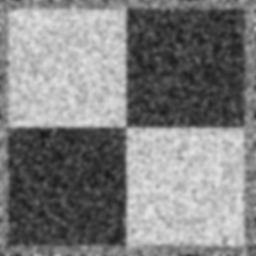
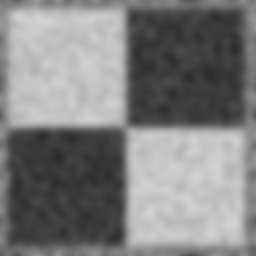
fixed lines
fixed hough lines for various theta values
continued progress on all images.

diff --git a/cs4495/ps1_matlab/ps1.m b/cs4495/ps1_matlab/ps1.m
@@ -17,12 +17,38 @@ hough_lines_draw(img, 'ps1-2-c-1.png', peaks, rho, theta);
 
 %% 3-a
 img_w_noise = imread(fullfile('input', 'ps1-input0-noise.png'));
-filter_size = 10;
-filter_sigma = 2;
+filter_size = 20;
+filter_sigma = 4;
 H = fspecial('gaussian', filter_size, filter_sigma);
 smoothed_img = imfilter(img_w_noise, H, 'replicate');
 imwrite(smoothed_img, fullfile('output', 'ps1-3-a-1.png'));
 
 %% 3-b
 noise_edges = edge(smoothed_img);
-imwrite(noise_edges, fullfile('output', 'ps1-3-b-1.png'));
+imwrite(edge(img_w_noise), fullfile('output', 'ps1-3-b-1.png'));
+imwrite(noise_edges, fullfile('output', 'ps1-3-b-2.png'));
+
+%% 3-c
+[H, theta, rho] = hough_lines_acc(noise_edges);  
+peaks = hough_peaks(H, 10);
+disp(size(peaks));
+annotate_peaks(H, peaks, 'ps1-3-c-1.png')  %wat?????
+hough_lines_draw(img_w_noise, 'ps1-3-c-2.png', peaks, rho, theta);
+
+%% 4-a
+img = rgb2gray(imread(fullfile('input', 'ps1-input1.png')));
+filter_size = 20;
+filter_sigma = 2;
+H = fspecial('gaussian', filter_size, filter_sigma);
+smoothed_img = imfilter(img, H, 'replicate');
+imwrite(smoothed_img, fullfile('output', 'ps1-4-a-1.png'));
+
+%% 4-b
+edges = edge(smoothed_img);
+imwrite(edges, fullfile('output', 'ps1-4-b-1.png'));
+
+%% 4-c
+[H, theta, rho] = hough_lines_acc(edges);
+peaks = hough_peaks(H, 20);
+annotate_peaks(H, peaks, 'ps1-4-c-1.png');
+hough_lines_draw(img, 'ps1-4-c-2.png', peaks, rho, theta);

diff --git a/cs4495/ps1_matlab/hough_lines_draw.m b/cs4495/ps1_matlab/hough_lines_draw.m
@@ -15,8 +15,8 @@ function hough_lines_draw(img, outfile, peaks, rho, theta)
     %plot stuff
     for peakidx = 1:size(peaks,1)
         idx = peaks(peakidx, :);
-        r = abs(rho(idx(1)));
-        t = abs(theta(idx(2)));
+        r = rho(idx(1));
+        t = theta(idx(2));
         if t~=0
             x = 1:size(img,2);
             y = (r - x*cosd(t))/sind(t);
